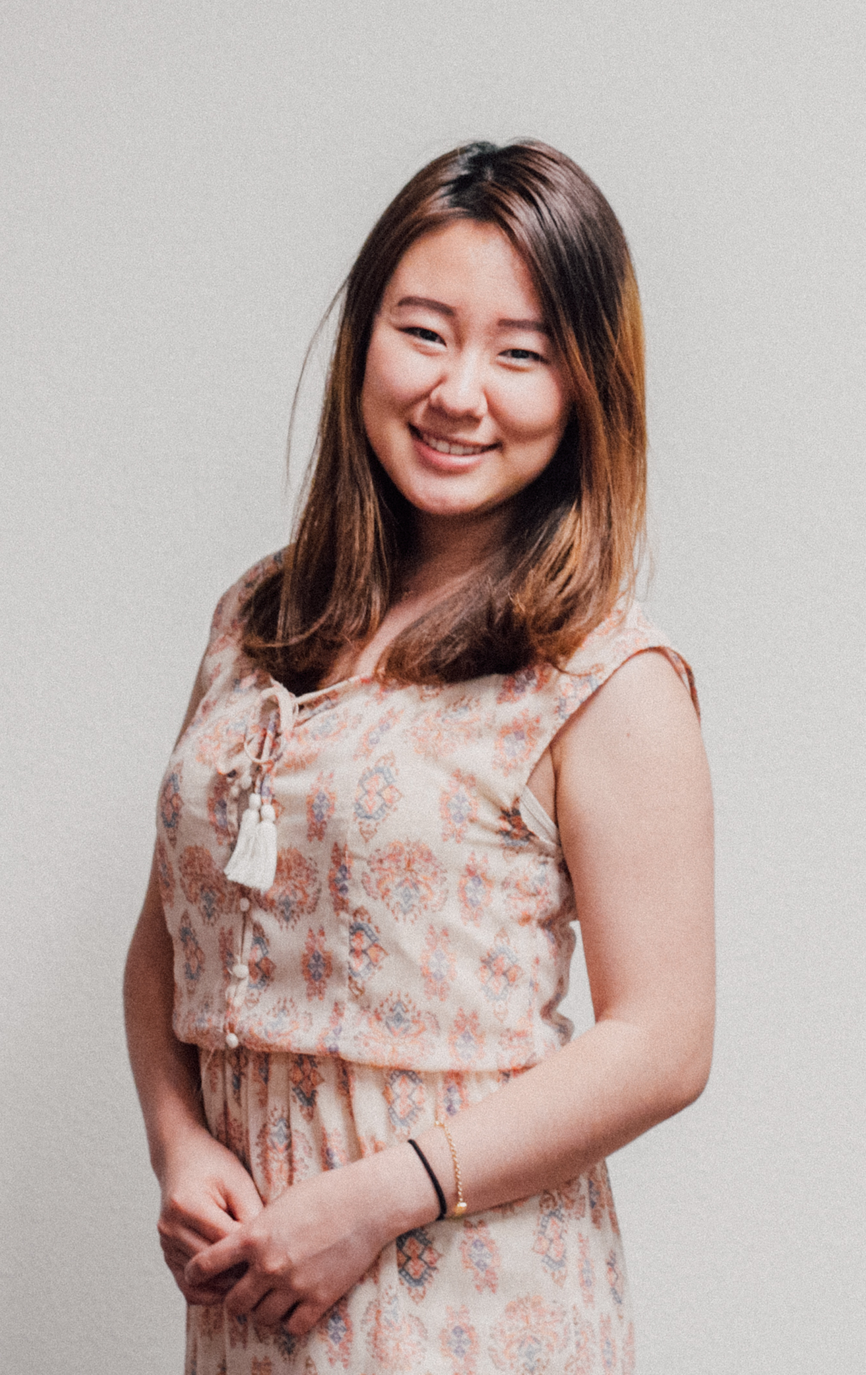
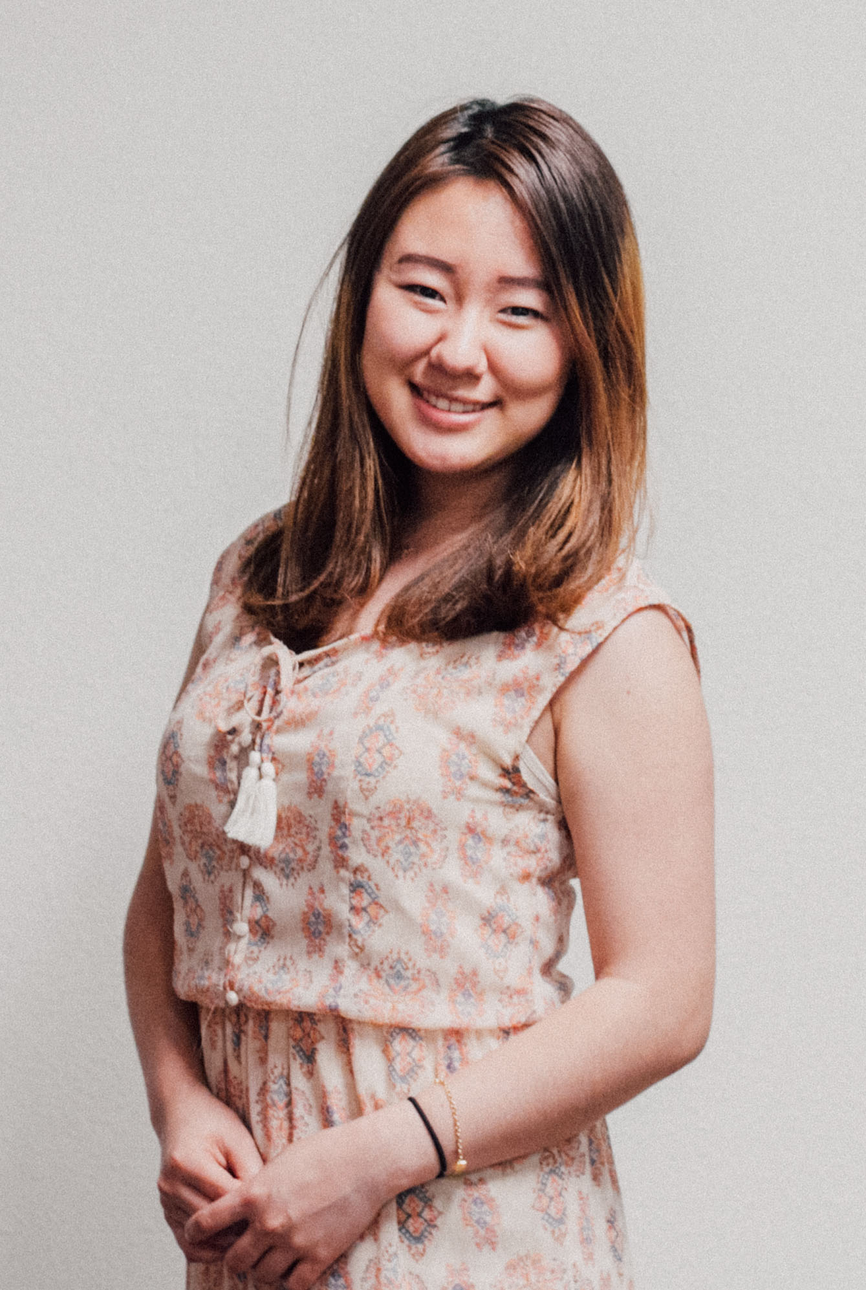
initial changes to fix mobile formatting

Changed region(s): [[0.1225, 0.4975, 0.8267, 1.0], [0.245, 0.0622, 0.7961, 0.5286], [0.1225, 0.6841, 0.1531, 0.7151]]

diff --git a/src/styles/mobile/StaffPageMobile.css b/src/styles/mobile/StaffPageMobile.css
@@ -22,6 +22,8 @@
     display: flex;
     flex-direction: column;
     position: relative;
+     width: 100%;
+    height: 100%;
 }
 .mobile-staff-top-container {
     background-color: #eae7e1;
@@ -35,7 +37,7 @@
     padding-left: 20px;
 }
 .mobile-staff-description {
-    width: 325px;
+    width: 85%;
     padding-left: 20px;
     padding-bottom: 16px;
 }
@@ -53,10 +55,11 @@
     flex-direction: row;
     justify-content: center;
     height: 225px;
+    width: 100%;
     padding-right: 8px;
 }
 .mobile-staff-image img {
-    width: 104px;
+    width: 100%;
     height: 156px;
 }
 .mobile-staff-image {

diff --git a/src/styles/mobile/HomePageMobile.css b/src/styles/mobile/HomePageMobile.css
@@ -23,6 +23,8 @@
     display: flex;
     flex-direction: column;
     position: relative;
+    width: 100%;
+    height: 100%;
   }
   
   .mobile-top-container {
@@ -155,7 +157,7 @@
   }
 
   #subscription-description {
-    width: 152px;
+    width: 50%;
     position: relative;
     left: 136px;
     top: 20px;

diff --git a/src/styles/desktop/StaffPageDesktop.css b/src/styles/desktop/StaffPageDesktop.css
@@ -363,3 +363,4 @@
   height: 6vw;
   opacity: 0.2;
   margin-right: 2vw;
+}
